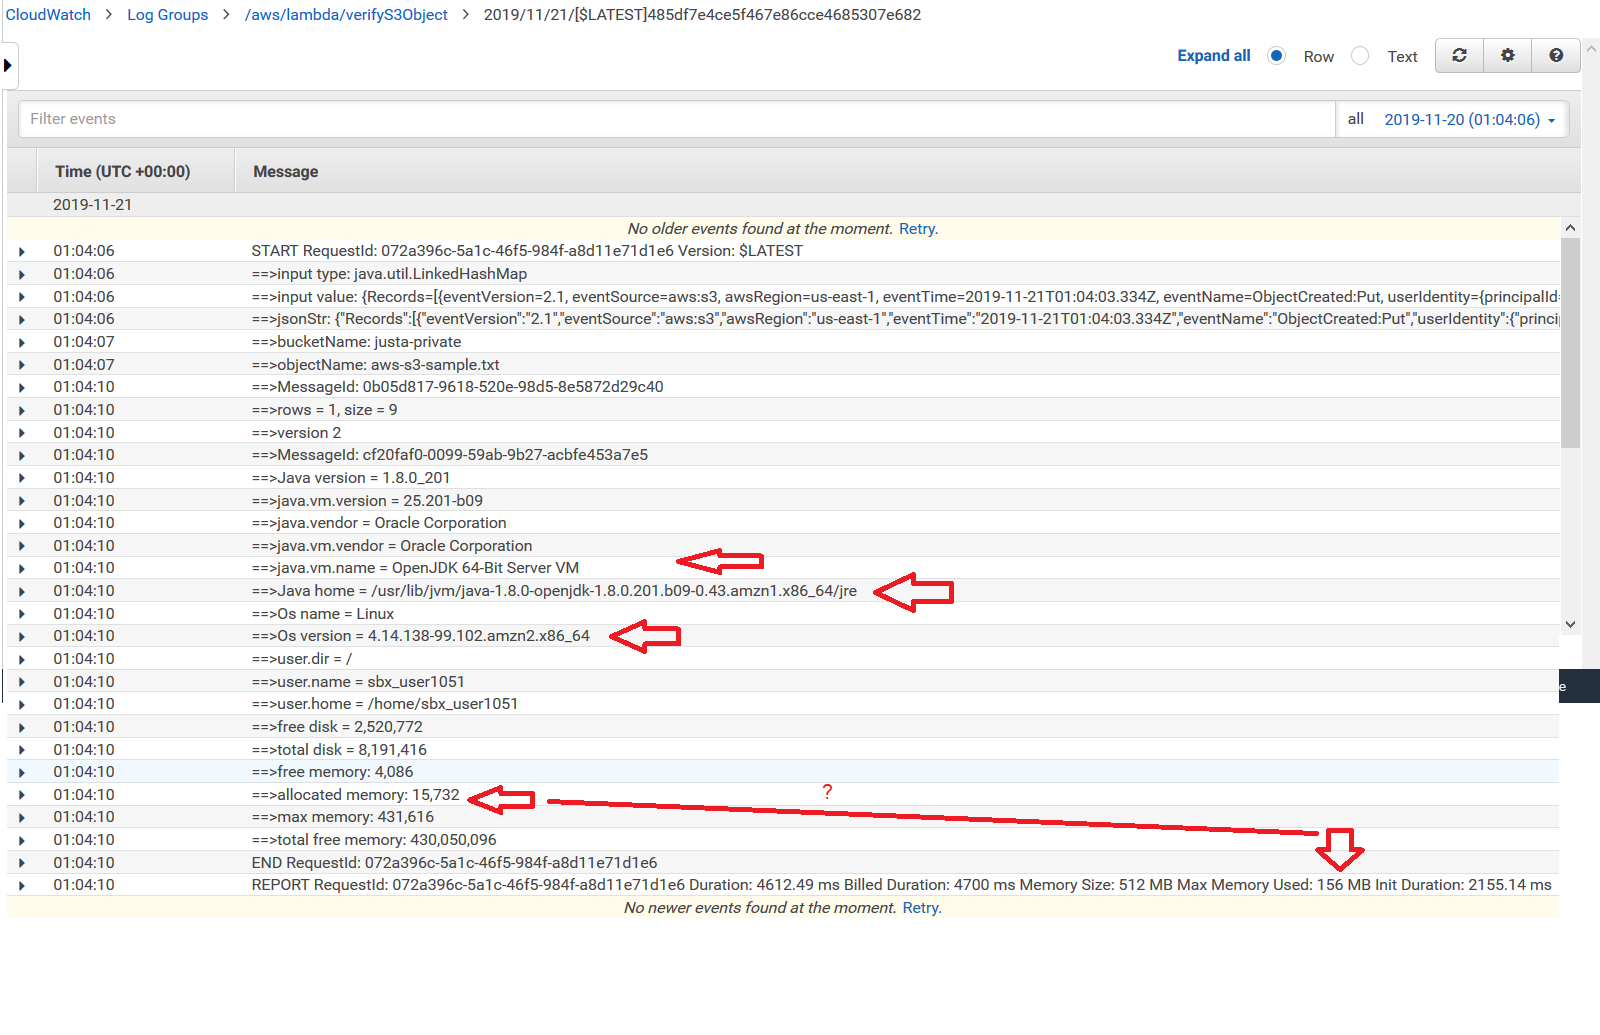
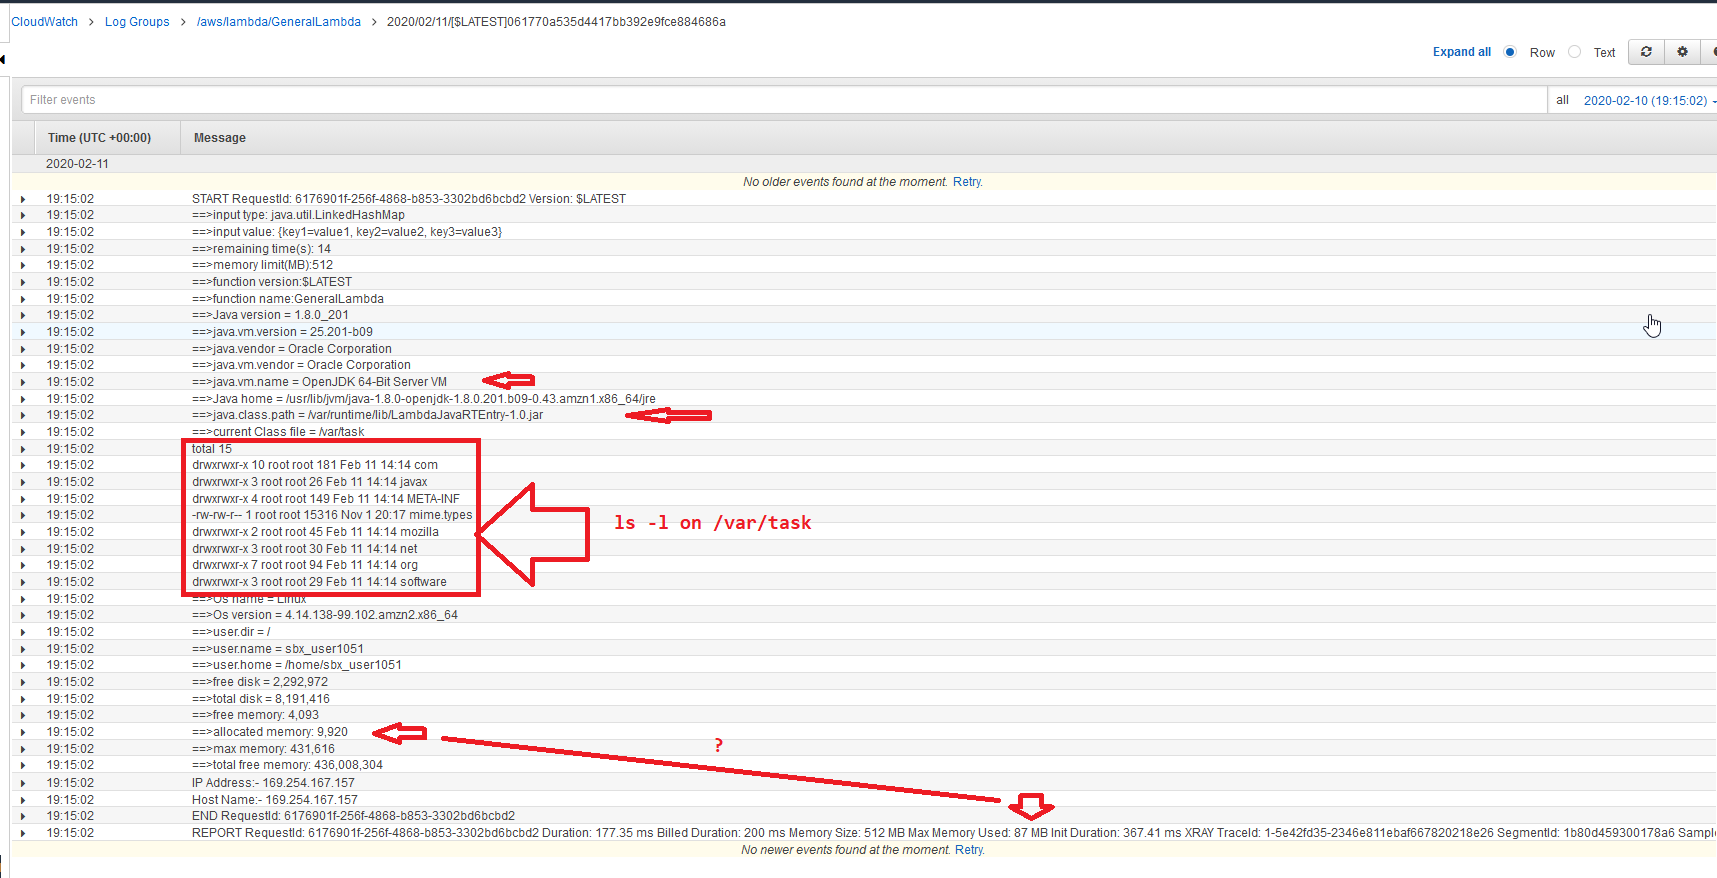
improve aws.md

Changed region(s): [[0.0, 0.0, 1.0, 0.9841], [0.9688, 0.6458, 1.0, 0.7073]]

diff --git a/aws/aws.md b/aws/aws.md
@@ -191,6 +191,14 @@ appropriate S3 bucket. ( **Can’t login to IAM using LDAP credentials** )
 using the LDAP credentials the application uses those temporary
 AWS security credentials to access the appropriate S3 bucket. ( **Need to authenticate with LDAP** )
 
+## Lambda
+AWS will automatically prepare running environment for a Lambda function. 
+It will cost more time to start if a lambda is not used for a while. Usuauly we called this cold start.
+init time is not counted as bill time.
+
+You can see below picture for environment details which is got from a lambda function: 
+<img src="aws/lambda_env.png">
+
 ## DB
 - Amazon RDS provides two different methods for backing up and restoring the Amazon DB instances. 
   A brief I/O freeze, typically lasting a few seconds, occurs during both automated backups and DB snapshot operations on Single-AZ DB instances.
